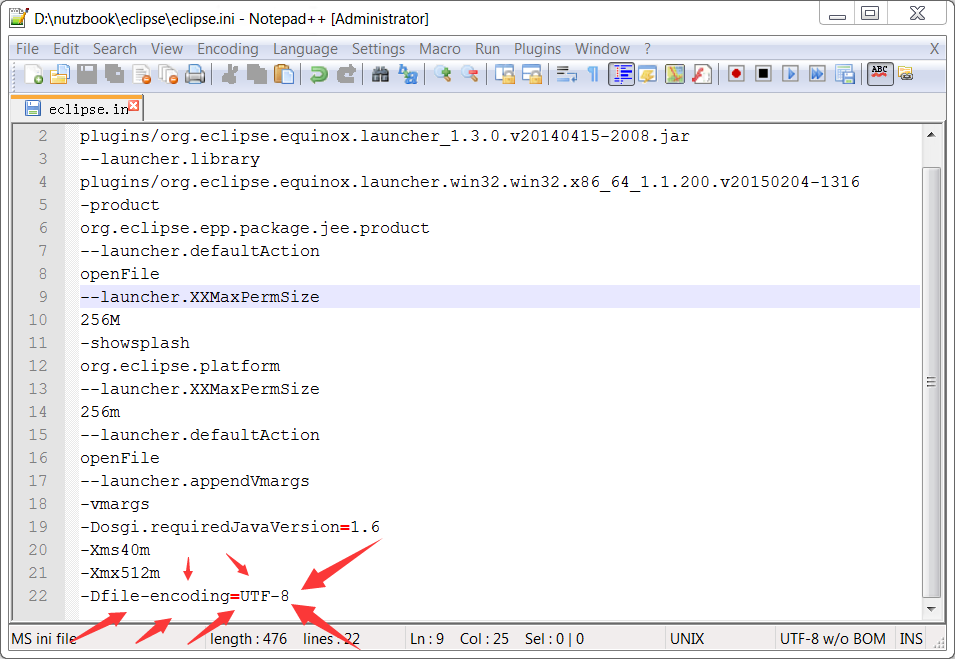
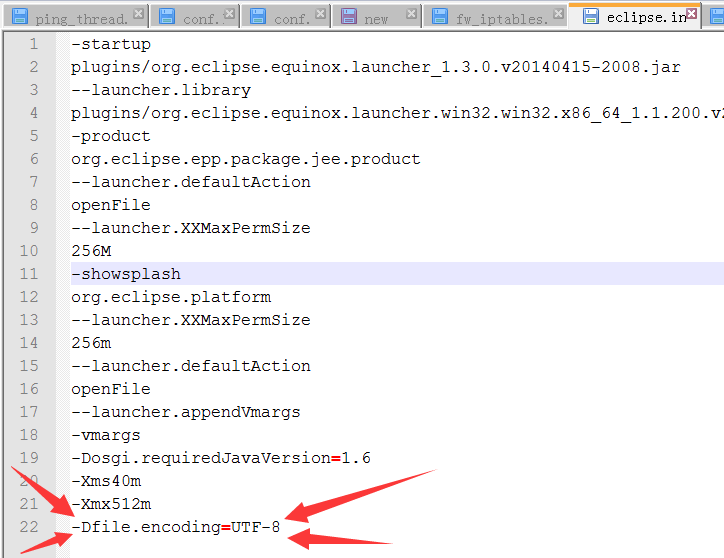
add: 完成到启动一个空的nutz webapp

Changed region(s): [[0.0, 0.0, 1.0, 1.0]]

diff --git a/setup30mins/configure_webxml.md b/setup30mins/configure_webxml.md
@@ -1,0 +1,49 @@
+# 配置Web.xml文件
+
+### 双击打开WebContent/WEB-INF/web.xml
+
+在display-name节点和welcome-file-list节点之间,添加以下内容
+
+```
+  <filter>
+  	<filter-name>nutz</filter-name>
+  	<filter-class>org.nutz.mvc.NutFilter</filter-class>
+  	<init-param>
+  		<param-name>modules</param-name>
+  		<param-value>net.wendal.nutzbook.MainModule</param-value>
+  	</init-param>
+  </filter>
+  <filter-mapping>
+  	<filter-name>nutz</filter-name>
+  	<url-pattern>/*</url-pattern>
+  </filter-mapping>
+```
+
+## 完成后完整的web.xml
+
+```
+<?xml version="1.0" encoding="UTF-8"?>
+<web-app xmlns:xsi="http://www.w3.org/2001/XMLSchema-instance" xmlns="http://java.sun.com/xml/ns/javaee" xsi:schemaLocation="http://java.sun.com/xml/ns/javaee http://java.sun.com/xml/ns/javaee/web-app_2_5.xsd" id="WebApp_ID" version="2.5">
+  <display-name>nutzbook</display-name>
+  <filter>
+  	<filter-name>nutz</filter-name>
+  	<filter-class>org.nutz.mvc.NutFilter</filter-class>
+  	<init-param>
+  		<param-name>modules</param-name>
+  		<param-value>net.wendal.nutzbook.MainModule</param-value>
+  	</init-param>
+  </filter>
+  <filter-mapping>
+  	<filter-name>nutz</filter-name>
+  	<url-pattern>/*</url-pattern>
+  </filter-mapping>
+  <welcome-file-list>
+    <welcome-file>index.html</welcome-file>
+    <welcome-file>index.htm</welcome-file>
+    <welcome-file>index.jsp</welcome-file>
+    <welcome-file>default.html</welcome-file>
+    <welcome-file>default.htm</welcome-file>
+    <welcome-file>default.jsp</welcome-file>
+  </welcome-file-list>
+</web-app>
+```

diff --git a/setup30mins/start_emtry_webapp.md b/setup30mins/start_emtry_webapp.md
@@ -1,0 +1,35 @@
+# 启动一下当前这个空的项目
+
+按Alt+Shift+X,R 弹出对话框, 或者 右键项目--Run as--Run on Server
+
+![启动空项目](images/start_emtry_webapp.png)
+
+然后按Finish,开始启动, Windows下第一次启动会提示各种授权,全部勾上,yes啦
+
+## 第一次启动会提示404页面,及没有匹配到任何方法,那是肯定的,呵呵
+
+![启动完成后的截图](images/start_emtry_webapp_2.png)
+
+## 可能遇到的问题
+
+* 提示某某类找不到, 一般是web.xml里面的NutFilter类名或MainModule类名写错,比较罕见的是jar没放好.
+* 提示没有定义modules,检查web.xml里面的param-name属性的值是不是写了modules
+* 只有极少日志, 大多是因为自行添加了log4j.jar,然后又没配置log4g,删掉log4j.jar即可.
+
+
+## 确认日志里面的重要信息
+
+检查点:
+
+* A点 -- MainModule类正确显示, 一般能出来都不会出错
+* B点 -- 编码信息,务必确保是UTF-8,如果不是,重新检查 [让Eclipse工作在UTF8环境](../prepare/eclipse_utf8.md)
+
+![检查点](images/start_emtry_webapp_3.png)
+
+其他日志,例如Iocby没找到,At没找到,因为的确没有配置,当前无需理会.
+
+## 关掉Tomcat
+
+在Servers选项页中,右键Tomcat8,然后stop.
+
+![关掉Tomcat](images/start_emtry_webapp_4.png)

diff --git a/SUMMARY.md b/SUMMARY.md
@@ -12,6 +12,7 @@
 * [基本准备](prepare/prepares.md)
 	* [选用工具](prepare/tools.md)
 	* [让Eclipse工作在UTF8环境](prepare/eclipse_utf8.md)
+	* [Eclipse的自动提示](prepare/auto_complete.md)
 	* [配置Server](prepare/server.md)
 	* [下载jar包](prepare/jars.md)
 	* [数据库准备](prepare/prepare_db.md)
@@ -20,6 +21,7 @@
 	* [添加jar包](setup30mins/add_jar.md)
 	* [添加MainModule](setup30mins/add_mainmodule.md)
 	* [配置web.xml](setup30mins/configure_webxml.md)
+	* [启动一下这个空项目](setup30mins/start_emtry_webapp.md)
 	* [添加dao.json文件](setup30mins/add_daojson.md)
 	* [配置IocBy](setup30mins/configure_iocby.md)
 	* [新增Pojo](setup30mins/add_pojos.md)

diff --git a/setup30mins/new_project.md b/setup30mins/new_project.md
@@ -1,0 +1,20 @@
+# 新建Web项目
+
+### 启动Eclipse后,按Ctrl+N开启新建对话框,选择Web下的Dynamic Web Project,点击Next
+
+![新建项目对话框](images/new_web_project_1.png)
+
+### 在新建Web项目对话框中,输入项目名称nutzbook,web模块版本号选2.5,点击Next
+
+![新建Web项目对话框](images/new_web_project_2.png)
+
+### 新建源文件夹conf,修改默认class路径到WebContent/WEB-INF/classes,然后按Finish
+
+![初始化Web项目配置](images/new_web_project_3.png)
+
+### 完成图
+
+
+![新建Web项目完成图](images/new_web_project_4.png)
+
+请对比各种文件及文件夹是否正确.

diff --git a/prepare/auto_complete.md b/prepare/auto_complete.md
@@ -1,0 +1,13 @@
+# Eclipse的自动完成
+
+换个说法就是Alt+/的自动提示
+
+编写这本书的时候发现新版的Eclipse的默认设置又改了,那我们只能自行改一下咯
+
+### 在Eclipse界面中,按菜单中的Windows-->Perferences,输入keys, 然后输出word com,注意空格, 然后点一下唯一一条记录, 再按下Unbind Command.
+
+![取消Word Completion绑定](images/auto_complete_1.png)
+
+### 然后修改Content Assist的绑定. 输入content ass,第一条记录,点一下Binding的输入框,删掉老内容,按下Alt+/,保存
+
+![修改](images/auto_complete_2.png)

diff --git a/setup30mins/add_mainmodule.md b/setup30mins/add_mainmodule.md
@@ -1,0 +1,15 @@
+# 添加MainModule
+
+### 按Ctrl+N,选Class,点Next,输入package为net.wendal.nutzbook,类名为MainModule
+
+![添加MainModule](images/add_mainmodule.png)
+
+### 添加模块类自动扫描
+
+添加一行代码
+
+	@Modules(scanPackage=true)
+
+并按下Ctrl+Shift+O,自动导入.
+
+![模块类自动扫描](images/add_mainmodule_modules.png)

diff --git a/setup30mins/add_jar.md b/setup30mins/add_jar.md
@@ -1,0 +1,5 @@
+# 添加Jar包
+
+### 将之前下载好的nutz,druid,mysql的jar包,放入WebContent/WEB-INF/lib目录下
+
+![添加Jar包](images/add_jars.png)

diff --git a/prepare/eclipse_utf8.md b/prepare/eclipse_utf8.md
@@ -8,7 +8,7 @@
 
 在末尾加入一句
 
-    -Dfile-encoding=UTF-8
+    -Dfile.encoding=UTF-8
 
 ### 效果如下
 
